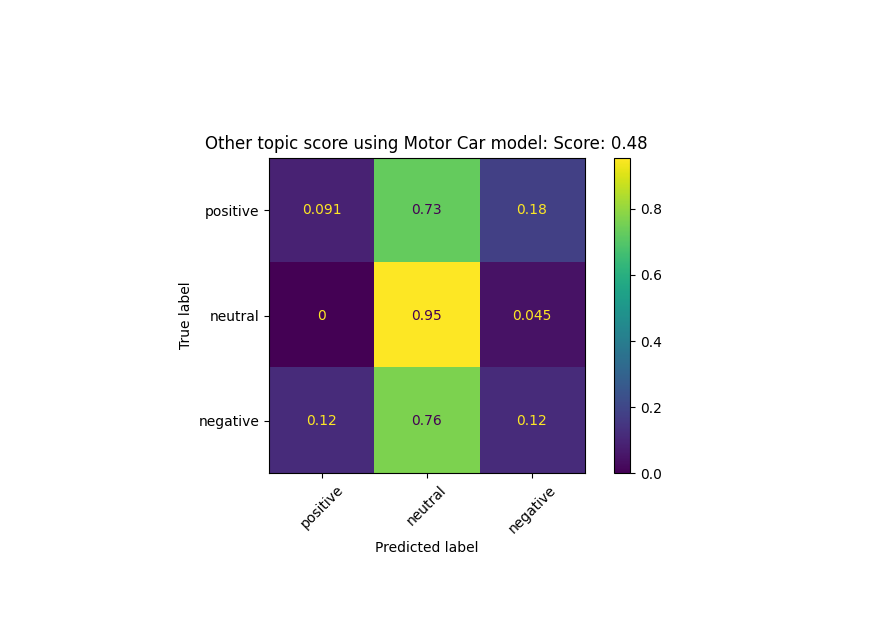
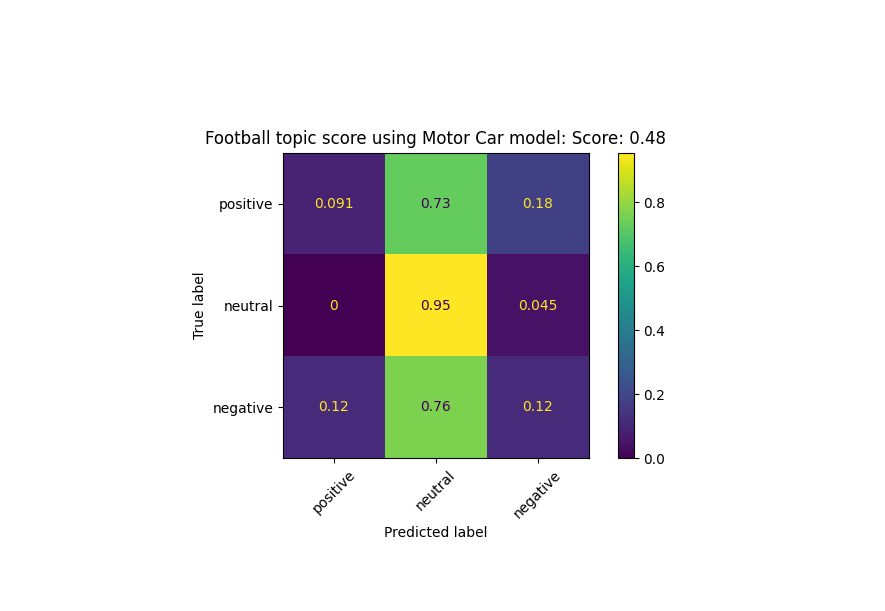
final update

diff --git a/create_sent_model.py b/create_sent_model.py
@@ -141,7 +141,7 @@ if __name__ == "__main__":
 
     other_topic_predictions = model.predict(other_topic_test)
     other_topic_score = accuracy_score(other_topic_df.sentiment, other_topic_predictions)
-    result_string = f'Other topic score using Motor Car model: Score: {round(other_topic_score, 3)}'
+    result_string = f'Football topic score using Motor Car model: Score: {round(other_topic_score, 3)}'
     print(result_string)
     cm = confusion_matrix(other_topic_df.sentiment, other_topic_predictions, labels=['positive', 'neutral', 'negative'], normalize='true')
     plot = ConfusionMatrixDisplay(cm, ['positive', 'neutral', 'negative'])

diff --git a/README.md b/README.md
@@ -96,6 +96,13 @@ def classify_tweet(tweet_id):
 
 ![Select sentiment](images/classify_tweet.png)
 
+
+## Dataset proportions
+```python
+{'neutral': 239, 'positive': 104, 'negative': 81}
+```
+![Classes](./images/data_breakdown_pie.png)
+
 ## Building a Sentiment Model
 
 Now that tweets have been collected we can now begin to train a model to predict the sentiment of new tweets .
@@ -209,11 +216,11 @@ def compare_sentiment(x_test, y_test, custom_model_score):
 
 Both models performed very poorly. 
 ```commandline
-Number of features: 1424
-Vader scored: 0.5441176470588235
-Custom model scored: 0.5147058823529411
+Number of features: 1912
+Vader scored: 0.5283018867924528
+Custom model scored: 0.5471698113207547
 ```
-It appears Vader produces a higher accuracy. However lets compare the confusion matrix of both models...
+It appears the custom model performed better. However lets compare the confusion matrix of both models...
 * Vader
 
 ![Vader CM](images/Vader_Confusion_Matrix.png)
@@ -221,11 +228,11 @@ It appears Vader produces a higher accuracy. However lets compare the confusion 
 * Neural Net
 ![Neural Net CM](images/Custom_Model_Confusion_Matrix.png)
 
-The Vader model only classifies tweets as neutral. This however may be due to the processed tweet.
+The Vader model mainly classifies tweets as neutral.
 The testing data provided to the model has had punctuation removed which vader takes into account.
   
-The custom model from an accuracy standpoint performs worse, however it can identify some positive
-tweets but cannot identify negative tweets.
+The custom model from an accuracy standpoint performs better. It has a 80% hit rate for neutral tweets
+but struggles on positive and negative tweets.
 
 ### Using model on unseen topic: Football
 The models accuracy was tested on the unseen topic of football. 50 football related tweets were used to test the models accuracy.
@@ -233,7 +240,7 @@ The models accuracy was tested on the unseen topic of football. 50 football rela
 Other topic score using Motor car model: Score: 0.48
 ```
 
-![Unseen topic of football](./images/Custom_Model_Confusion_Matrix_used_on_Football_tweets.png)
+![Unseen topic of football](./images/Custom_Model_used_on_Football_tweets.png)
 
 
 ## Final remarks
